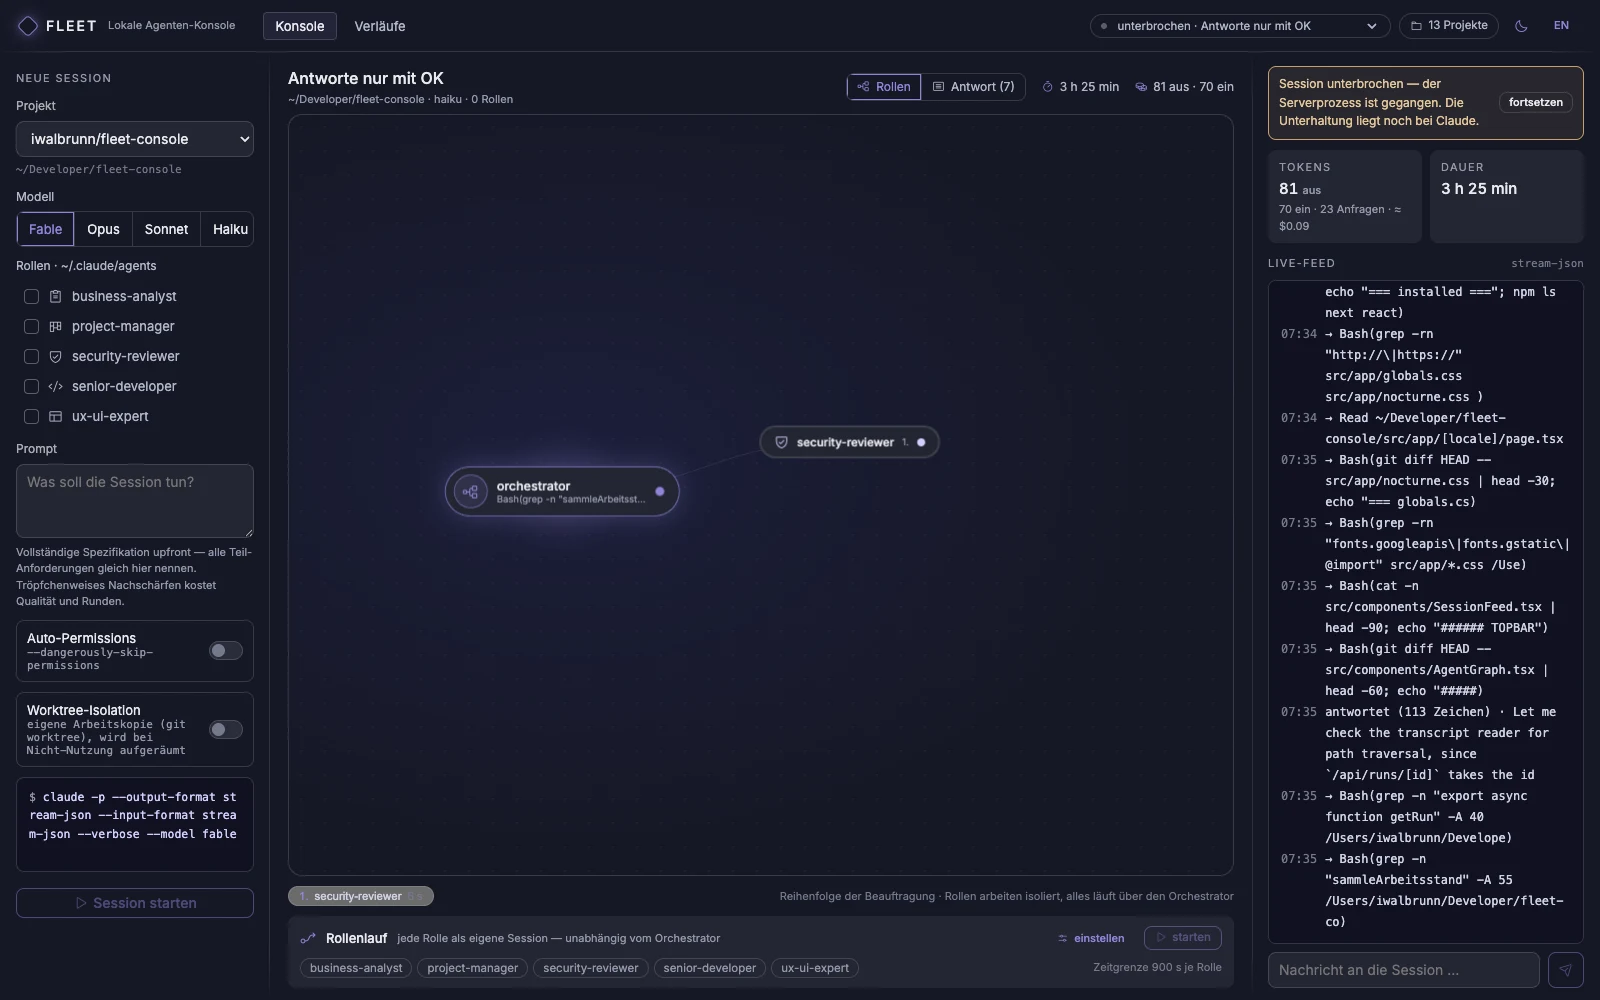
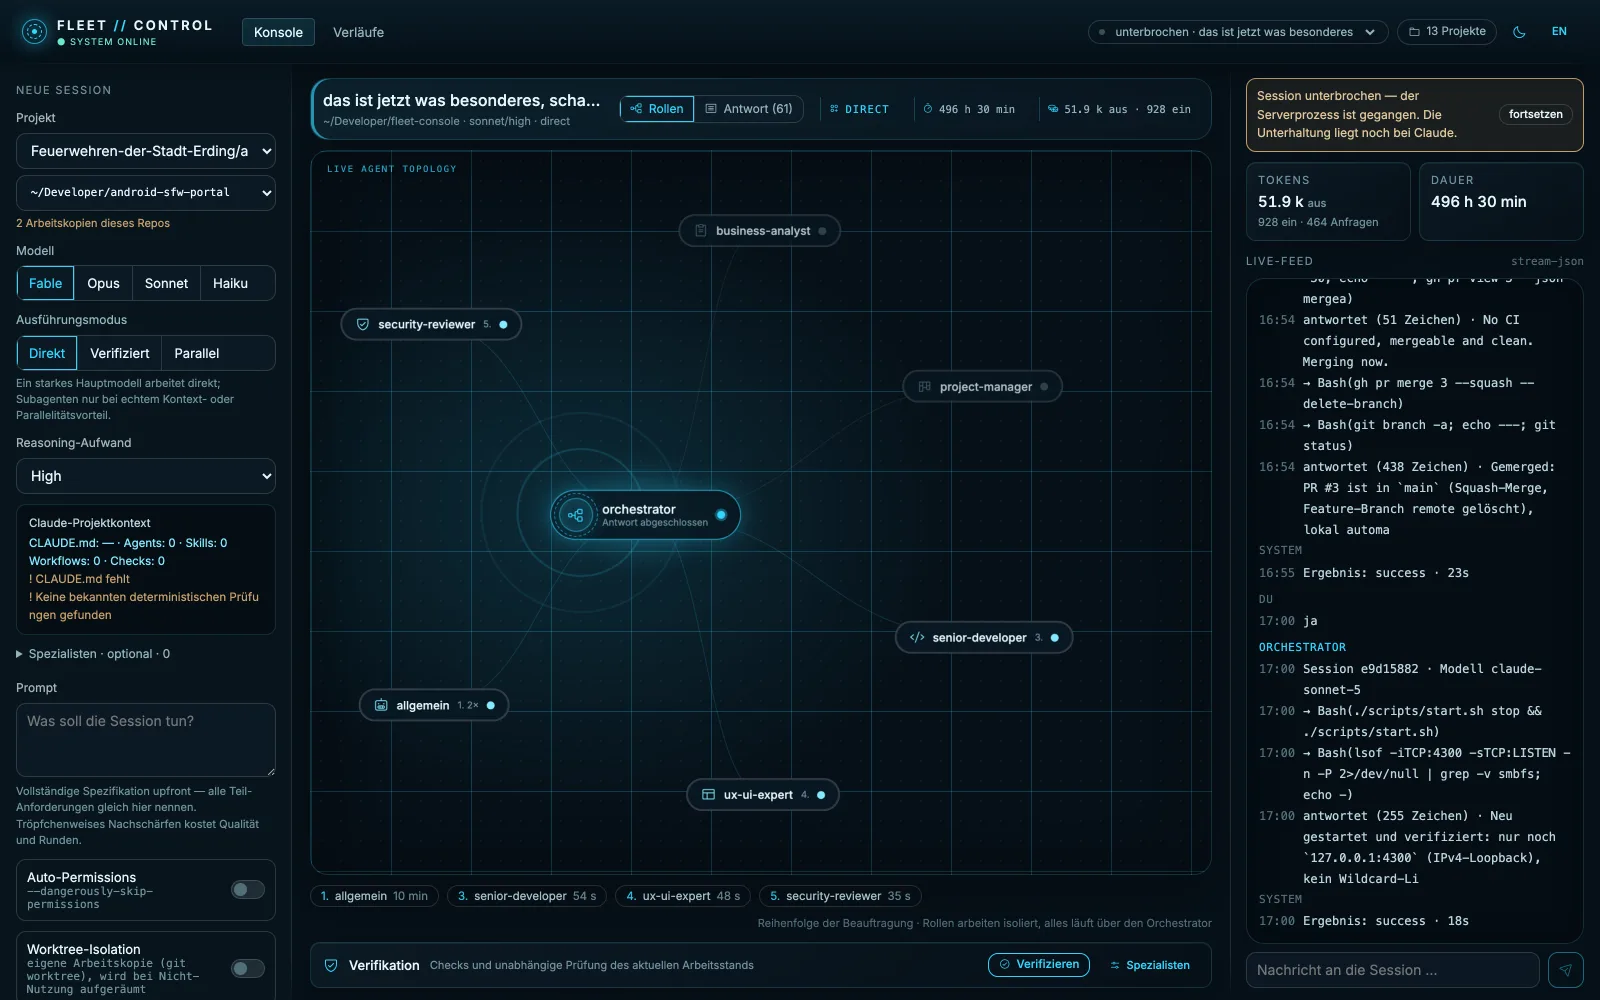
Hell-Modus lesbar machen, Wettläufe im Laufzeitkern schließen, Screenshots erneuern
- Kopfleiste und Schatten laufen über Tokens (--topbar-bg-1/-2, --shadow-ambient),
  damit der helle Modus keine dunklen Flächen und keinen unlesbaren Text mehr hat;
  Kontrast der neutralen Stufen im hellen Modus angehoben.
- Antwort-Ansicht ohne Topologie-Label, Auftrags-Chips ohne UA-Button-Hintergrund.
- Anforderungsänderungen laufen serialisiert (anforderungenAendern), ein abgelöster
  Kindprozess schließt die Session nicht mehr ab, Worktrees werden bei jedem Ende
  aufgeräumt; Tests dafür ergänzt.
- Test-Suiten mit node:-Importen auf die Node-Umgebung festgelegt.
- README, DESIGNSYSTEM und docs/screenshots auf den aktuellen Stand gebracht.

diff --git a/src/app/globals.css b/src/app/globals.css
@@ -91,7 +91,7 @@ a:hover {
   gap: 28px;
   padding: 0 22px;
   background:
-    linear-gradient(180deg, rgba(11, 28, 39, 0.9), rgba(5, 15, 22, 0.68)),
+    linear-gradient(180deg, var(--topbar-bg-1), var(--topbar-bg-2)),
     linear-gradient(
         to right,
         transparent,
@@ -101,7 +101,7 @@ a:hover {
       )
       no-repeat bottom / 100% 1px;
   backdrop-filter: blur(22px) saturate(140%);
-  box-shadow: 0 8px 32px rgba(0, 0, 0, 0.22);
+  box-shadow: 0 8px 32px color-mix(in srgb, var(--shadow-ambient) 50%, transparent);
   z-index: 40;
 }
 
@@ -162,7 +162,9 @@ a:hover {
   align-items: center;
   gap: 6px;
   font-size: 11.5px;
+  font-family: inherit;
   color: var(--color-neutral-400);
+  background: transparent; /* auch als <button>: kein UA-buttonface */
   border: 1px solid var(--color-divider);
   border-radius: 99px;
   padding: 3px 10px;
@@ -283,8 +285,12 @@ a:hover {
     80px 80px,
     20px 20px;
   box-shadow:
-    inset 0 0 80px rgba(0, 0, 0, 0.45),
-    0 18px 60px rgba(0, 0, 0, 0.24);
+    inset 0 0 80px var(--shadow-ambient),
+    0 18px 60px color-mix(in srgb, var(--shadow-ambient) 55%, transparent);
+}
+/* Das Topologie-Label gehört nur zur Graph-Bühne, nicht zur Antwort-Ansicht. */
+.stage.stage-text::after {
+  content: none;
 }
 .stage::after {
   content: 'LIVE AGENT TOPOLOGY';
@@ -360,7 +366,7 @@ a:hover {
   background: var(--color-code-bg);
   border: 1px solid var(--glass-border);
   border-radius: var(--radius-lg);
-  box-shadow: inset 0 0 32px rgba(0, 0, 0, 0.32);
+  box-shadow: inset 0 0 32px color-mix(in srgb, var(--shadow-ambient) 70%, transparent);
   min-height: 0;
 }
 
@@ -523,7 +529,7 @@ textarea.input {
   );
   box-shadow:
     inset 0 1px 0 color-mix(in srgb, var(--color-text) 5%, transparent),
-    0 12px 36px rgba(0, 0, 0, 0.16);
+    0 12px 36px color-mix(in srgb, var(--shadow-ambient) 36%, transparent);
   backdrop-filter: blur(16px);
 }
 
@@ -545,7 +551,7 @@ textarea.input {
   );
   box-shadow:
     inset 3px 0 0 color-mix(in srgb, var(--color-accent) 65%, transparent),
-    0 12px 36px rgba(0, 0, 0, 0.15);
+    0 12px 36px color-mix(in srgb, var(--shadow-ambient) 34%, transparent);
   backdrop-filter: blur(18px);
 }
 
@@ -742,7 +748,7 @@ textarea.input {
   z-index: 40;
   width: min(340px, 88vw);
   background: var(--color-surface);
-  box-shadow: 0 0 40px rgba(0, 0, 0, 0.55);
+  box-shadow: 0 0 40px var(--shadow-ambient);
 }
 .drawer-links {
   left: 0;

diff --git a/src/lib/__tests__/session-runtime.test.ts b/src/lib/__tests__/session-runtime.test.ts
@@ -1,0 +1,64 @@
+// @vitest-environment node
+import { describe, expect, test } from 'vitest'
+import { anforderungenAendern, createSessionRuntime, leererKnoten } from '../session-runtime'
+import type { Anforderung, SessionState } from '../types'
+
+function state(): SessionState {
+  return {
+    id: '44444444-4444-4444-8444-444444444444',
+    claudeSessionId: null,
+    project: '/tmp/project',
+    model: 'sonnet',
+    roles: [],
+    prompt: 'x',
+    skipPermissions: false,
+    startedAt: '2026-08-15T08:00:00.000Z',
+    endedAt: null,
+    status: 'läuft',
+    tokensIn: 0,
+    tokensOut: 0,
+    tokensCached: 0,
+    tokensCacheWrite: 0,
+    anfragen: 0,
+    kostenUsd: 0,
+    anforderungen: [],
+    worktreePath: null,
+    worktreeBasis: null,
+    nodes: [leererKnoten('orchestrator')],
+    antworten: [],
+    log: [],
+    reportPath: null,
+    cli: '',
+    pipelineAktiv: false,
+    pipelineRollen: [],
+  }
+}
+
+const eintrag = (id: string): Anforderung => ({ id, t: 't', text: id, status: 'offen' })
+
+describe('anforderungenAendern', () => {
+  test('serialisiert nebenläufige Änderungen — ein langsamer Merge überschreibt kein Append', async () => {
+    const runtime = createSessionRuntime(state(), { persist: async () => {} })
+
+    // Langsamer "merge": sieht nur den Stand von vor dem Append.
+    const langsam = anforderungenAendern(runtime, async (aktuell) => {
+      await new Promise((r) => setTimeout(r, 30))
+      return aktuell.map((e) => ({ ...e }))
+    })
+    const schnell = anforderungenAendern(runtime, async (aktuell) => [...aktuell, eintrag('a1')])
+    await Promise.all([langsam, schnell])
+
+    expect(runtime.state.anforderungen.map((e) => e.id)).toEqual(['a1'])
+  })
+
+  test('ein Fehler unterbricht die Kette nicht', async () => {
+    const runtime = createSessionRuntime(state(), { persist: async () => {} })
+    await expect(
+      anforderungenAendern(runtime, async () => {
+        throw new Error('kaputt')
+      })
+    ).rejects.toThrow('kaputt')
+    await anforderungenAendern(runtime, async (aktuell) => [...aktuell, eintrag('a1')])
+    expect(runtime.state.anforderungen).toHaveLength(1)
+  })
+})

diff --git a/src/lib/session-runtime.ts b/src/lib/session-runtime.ts
@@ -1,7 +1,7 @@
 import type { ChildProcessWithoutNullStreams } from 'node:child_process'
 import { sessionStore } from './session-storage'
 import { neuerUsageZaehler, type UsageZaehler } from './usage'
-import type { FeedLine, GraphNode, SessionState } from './types'
+import type { Anforderung, FeedLine, GraphNode, SessionState } from './types'
 
 export interface SessionRuntime {
   state: SessionState
@@ -24,6 +24,9 @@ export interface SessionRuntime {
   ablageGeplant: boolean
   kostenBasisUsd: number
   usageZaehler: UsageZaehler
+  /** Serialisiert alle Lese-/Schreibzyklen auf state.anforderungen — sonst
+   * überschreibt ein spät auflösender merge() einen frischen append(). */
+  anforderungenKette: Promise<void>
   persist: () => Promise<void>
 }
 
@@ -87,6 +90,7 @@ export function createSessionRuntime(
     ablageGeplant: false,
     kostenBasisUsd: options.kostenBasisUsd ?? 0,
     usageZaehler: neuerUsageZaehler(),
+    anforderungenKette: Promise.resolve(),
     persist:
       options.persist ??
       (async () => {
@@ -101,6 +105,21 @@ export function createSessionRuntime(
 }
 
 const MAX_LOG = 400
+
+/** Führt eine Änderung an der Anforderungsliste erst aus, wenn die vorige
+ *  abgeschlossen ist. Fehler brechen die Kette nicht ab. */
+export function anforderungenAendern(
+  session: SessionRuntime,
+  aenderung: (aktuell: Anforderung[]) => Promise<Anforderung[]>
+): Promise<void> {
+  const schritt = session.anforderungenKette.then(async () => {
+    session.state.anforderungen = await aenderung(session.state.anforderungen)
+    emit(session, 'anforderungen', session.state.anforderungen)
+    planeAblage(session)
+  })
+  session.anforderungenKette = schritt.catch(() => {})
+  return schritt
+}
 
 export function emit(session: SessionRuntime, event: string, data: unknown): void {
   const payload = `event: ${event}\ndata: ${JSON.stringify(data)}\n\n`

diff --git a/src/app/nocturne.css b/src/app/nocturne.css
@@ -87,6 +87,9 @@
   --glass-border: rgba(93, 218, 245, 0.16);
   --hud-line: rgba(50, 213, 255, 0.22);
   --color-backdrop: rgba(10, 11, 18, 0.55);
+  --topbar-bg-1: rgba(11, 28, 39, 0.9); /* Kopfleiste: oben */
+  --topbar-bg-2: rgba(5, 15, 22, 0.68); /* Kopfleiste: unten */
+  --shadow-ambient: rgba(0, 0, 0, 0.45); /* Ambient-Schatten, Alpha per color-mix */
 
   color-scheme: dark;
 }
@@ -108,9 +111,9 @@
   --color-neutral-200: #383b45;
   --color-neutral-300: #4d505d;
   --color-neutral-400: #636779;
-  --color-neutral-500: #7d8194;
-  --color-neutral-600: #999db0;
-  --color-neutral-700: #b8bccb;
+  --color-neutral-500: #666a7e;
+  --color-neutral-600: #7b7f93;
+  --color-neutral-700: #a5a9bc;
   --color-neutral-800: #d6d9e4;
   --color-neutral-900: #eceef5;
 
@@ -151,6 +154,9 @@
   --glass-border: rgba(41, 126, 151, 0.18);
   --hud-line: rgba(28, 135, 166, 0.15);
   --color-backdrop: rgba(35, 37, 50, 0.35);
+  --topbar-bg-1: rgba(255, 255, 255, 0.86);
+  --topbar-bg-2: rgba(244, 245, 250, 0.72);
+  --shadow-ambient: rgba(35, 37, 60, 0.16);
 
   color-scheme: light;
 }
@@ -168,9 +174,9 @@
     --color-neutral-200: #383b45;
     --color-neutral-300: #4d505d;
     --color-neutral-400: #636779;
-    --color-neutral-500: #7d8194;
-    --color-neutral-600: #999db0;
-    --color-neutral-700: #b8bccb;
+    --color-neutral-500: #666a7e;
+    --color-neutral-600: #7b7f93;
+    --color-neutral-700: #a5a9bc;
     --color-neutral-800: #d6d9e4;
     --color-neutral-900: #eceef5;
 
@@ -211,6 +217,9 @@
     --glass-border: rgba(41, 126, 151, 0.18);
     --hud-line: rgba(28, 135, 166, 0.15);
     --color-backdrop: rgba(35, 37, 50, 0.35);
+    --topbar-bg-1: rgba(255, 255, 255, 0.86);
+    --topbar-bg-2: rgba(244, 245, 250, 0.72);
+    --shadow-ambient: rgba(35, 37, 60, 0.16);
 
     color-scheme: light;
   }

diff --git a/src/lib/claude-process.ts b/src/lib/claude-process.ts
@@ -89,7 +89,10 @@ export function startClaudeProcess(
   })
 
   child.on('close', (code) => {
-    if (session.wirdUmgestellt) return
+    // Nur der aktuell gebundene Prozess darf den Sessionzustand abschließen.
+    // Nach einer Umstellung (reconfigureSession) läuft längst ein neuer
+    // Prozess — das späte close des alten darf ihn nicht beenden.
+    if (session.wirdUmgestellt || session.child !== child) return
     if (state.status !== 'abgebrochen') state.status = code === 0 ? 'fertig' : 'fehler'
     state.endedAt = now()
     setNode(session, 'orchestrator', {
@@ -119,7 +122,9 @@ export function startClaudeProcess(
       })
     }
     push(session, { agent: 'system', kind: 'result', text: `Prozess beendet (Code ${code})` })
-    if (state.status === 'fertig' || state.status === 'abgebrochen') void cleanupWorktree(session)
+    // Auch nach einem Absturz aufräumen: cleanup() behält den Worktree von
+    // selbst, sobald er Änderungen enthält.
+    void cleanupWorktree(session)
     void session.persist()
     emit(session, 'state', state)
     emit(session, 'end', { id: state.id })

diff --git a/src/lib/sessions.ts b/src/lib/sessions.ts
@@ -5,11 +5,11 @@ import { buildArgs, cliText } from './claude-cli'
 import { startClaudeProcess, terminateProcess } from './claude-process'
 import { requirementStore } from './session-requirements'
 import {
+  anforderungenAendern,
   createSessionRuntime,
   emit,
   leererKnoten,
   now,
-  planeAblage,
   push,
   registry,
   setNode,
@@ -269,14 +269,9 @@ export function anforderungenDatei(id: string): string {
  *  die kanonische Liste zurückschreiben. */
 async function ergaenzeAnforderung(s: Session, text: string) {
   try {
-    s.state.anforderungen = await requirementStore.append(
-      s.state.id,
-      s.state.anforderungen,
-      text,
-      now()
+    await anforderungenAendern(s, (aktuell) =>
+      requirementStore.append(s.state.id, aktuell, text, now())
     )
-    emit(s, 'anforderungen', s.state.anforderungen)
-    planeAblage(s)
   } catch {
     /* Liste ist ein Extra — ein Fehler hier darf die Nachricht nicht kippen */
   }

diff --git a/src/lib/__tests__/claude-process.test.ts b/src/lib/__tests__/claude-process.test.ts
@@ -84,4 +84,19 @@ describe('Claude-Prozesslebenszyklus', () => {
     expect(runtime.state.antworten.at(-1)?.text).toBe('Fertig.')
     expect(runtime.state.nodes[0]).toMatchObject({ status: 'done', phase: 'Abgeschlossen' })
   })
+
+  test('ein abgelöster Prozess schließt die Session nicht mehr ab', async () => {
+    const runtime = createSessionRuntime(state(directory), { persist: async () => {} })
+    expect(startClaudeProcess(runtime, [], { binary })).toBe(true)
+    const alt = runtime.child!
+    const geschlossen = new Promise<void>((resolve) => alt.once('close', () => resolve()))
+    // Umstellung: der alte Prozess wird abgelöst, bevor er beendet ist.
+    runtime.child = null
+    await geschlossen
+    // Handler des alten Prozesses läuft synchron nach 'close' — kurz nachgeben.
+    await new Promise((r) => setTimeout(r, 20))
+
+    expect(runtime.state.status).toBe('läuft')
+    expect(runtime.state.endedAt).toBeNull()
+  })
 })

diff --git a/src/components/AnswerView.tsx b/src/components/AnswerView.tsx
@@ -185,7 +185,7 @@ export default function AnswerView({
 
   if (!antworten.length) {
     return (
-      <div className="stage" style={{ display: 'grid', placeItems: 'center', color: 'var(--color-neutral-600)', fontSize: 13 }}>
+      <div className="stage stage-text" style={{ display: 'grid', placeItems: 'center', color: 'var(--color-neutral-600)', fontSize: 13 }}>
         {t('answer.none')}
       </div>
     )
@@ -195,7 +195,7 @@ export default function AnswerView({
   const bedarf = extrahiereBedarf(neueste.text)
 
   return (
-    <div className="stage" style={{ display: 'flex', flexDirection: 'column', minHeight: 0 }}>
+    <div className="stage stage-text" style={{ display: 'flex', flexDirection: 'column', minHeight: 0 }}>
       {/* Was jetzt gebraucht wird, steht über dem Text — nicht darin begraben. */}
       {(bedarf.length > 0 || wartet) && (
         <div className="fragebox" style={{ margin: '12px 14px 0', flex: 'none' }}>

diff --git a/src/lib/claude-events.ts b/src/lib/claude-events.ts
@@ -1,10 +1,10 @@
 import { HOME } from './config'
 import { requirementStore } from './session-requirements'
 import {
+  anforderungenAendern,
   emit,
   node,
   now,
-  planeAblage,
   push,
   setNode,
   writeRoleReport,
@@ -41,14 +41,10 @@ export interface ClaudeEventEffects {
 }
 
 const defaultEffects: ClaudeEventEffects = {
-  updateRequirements: async (session) => {
-    session.state.anforderungen = await requirementStore.merge(
-      session.state.id,
-      session.state.anforderungen
-    )
-    emit(session, 'anforderungen', session.state.anforderungen)
-    planeAblage(session)
-  },
+  updateRequirements: (session) =>
+    anforderungenAendern(session, (aktuell) =>
+      requirementStore.merge(session.state.id, aktuell)
+    ),
   writeRoleReport,
 }
 

diff --git a/src/app/[locale]/page.tsx b/src/app/[locale]/page.tsx
@@ -802,7 +802,7 @@ export default function Page() {
                     <span style={{ color: 'var(--color-accent)' }}>{n.order}.</span>
                     {n.id}
                     {n.startedAt && n.endedAt && (
-                      <span style={{ color: 'var(--color-neutral-600)' }}>
+                      <span style={{ color: 'var(--color-neutral-500)' }}>
                         {fmtDuration(
                           new Date(n.endedAt).getTime() - new Date(n.startedAt).getTime()
                         )}

diff --git a/src/lib/__tests__/review-verdict.test.ts b/src/lib/__tests__/review-verdict.test.ts
@@ -1,3 +1,4 @@
+// @vitest-environment node
 import { describe, expect, test } from 'vitest'
 import { VERDICT_SCHEMA, verdictAlsText, verdictKurz } from '../sessions'
 import type { RollenVerdict } from '../types'

diff --git a/src/lib/__tests__/session-contracts.test.ts b/src/lib/__tests__/session-contracts.test.ts
@@ -1,3 +1,4 @@
+// @vitest-environment node
 import { describe, expect, expectTypeOf, test } from 'vitest'
 import { leererKnoten } from '../sessions'
 import type {
